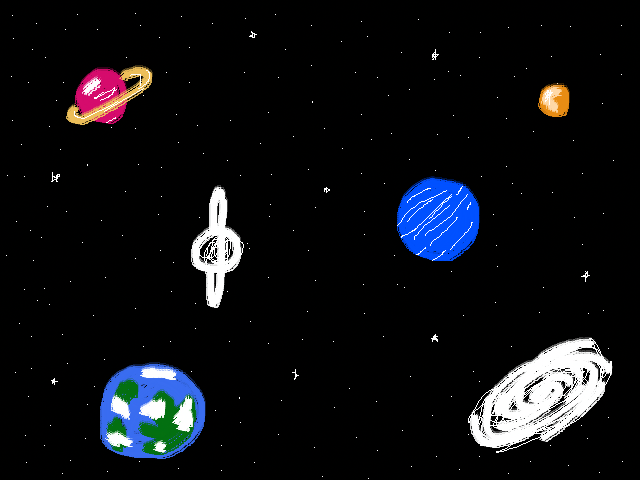
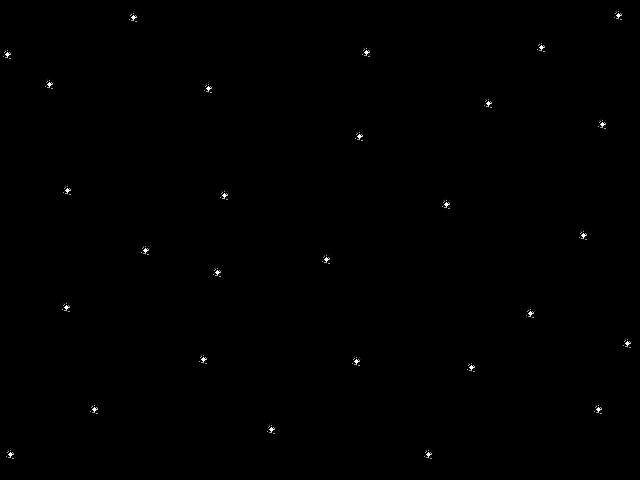
add UI borders update background

diff --git a/src/scenes/Play.js b/src/scenes/Play.js
@@ -5,10 +5,19 @@ class Play extends Phaser.Scene {
     }
 
     create() {
+        // scrolling background
         this.background = this.add.tileSprite(0, 0, 640, 480, 'background').setOrigin(0, 0)
+
+        // UI background
+        this.add.rectangle(0, borderUISize + borderPadding, game.config.width, borderUISize * 2, 0xFFFFFF).setOrigin(0, 0)
+        //white borders
+        this.add.rectangle(0, 0, game.config.width, borderUISize, 0xFFFFFF).setOrigin(0, 0)
+        this.add.rectangle(0, game.config.height - borderUISize, game.config.width, borderUISize, 0xFFFFFF).setOrigin(0, 0)
+        this.add.rectangle(0, 0, borderUISize, game.config.height, 0xFFFFFF).setOrigin(0, 0);
+        this.add.rectangle(game.config.width - borderUISize, 0, borderUISize, game.config.height, 0xFFFFFF).setOrigin(0, 0)
     }
 
     update() {
-        this.background.tilePositionX += 4
+        this.background.tilePositionX += 2
     }
 }
